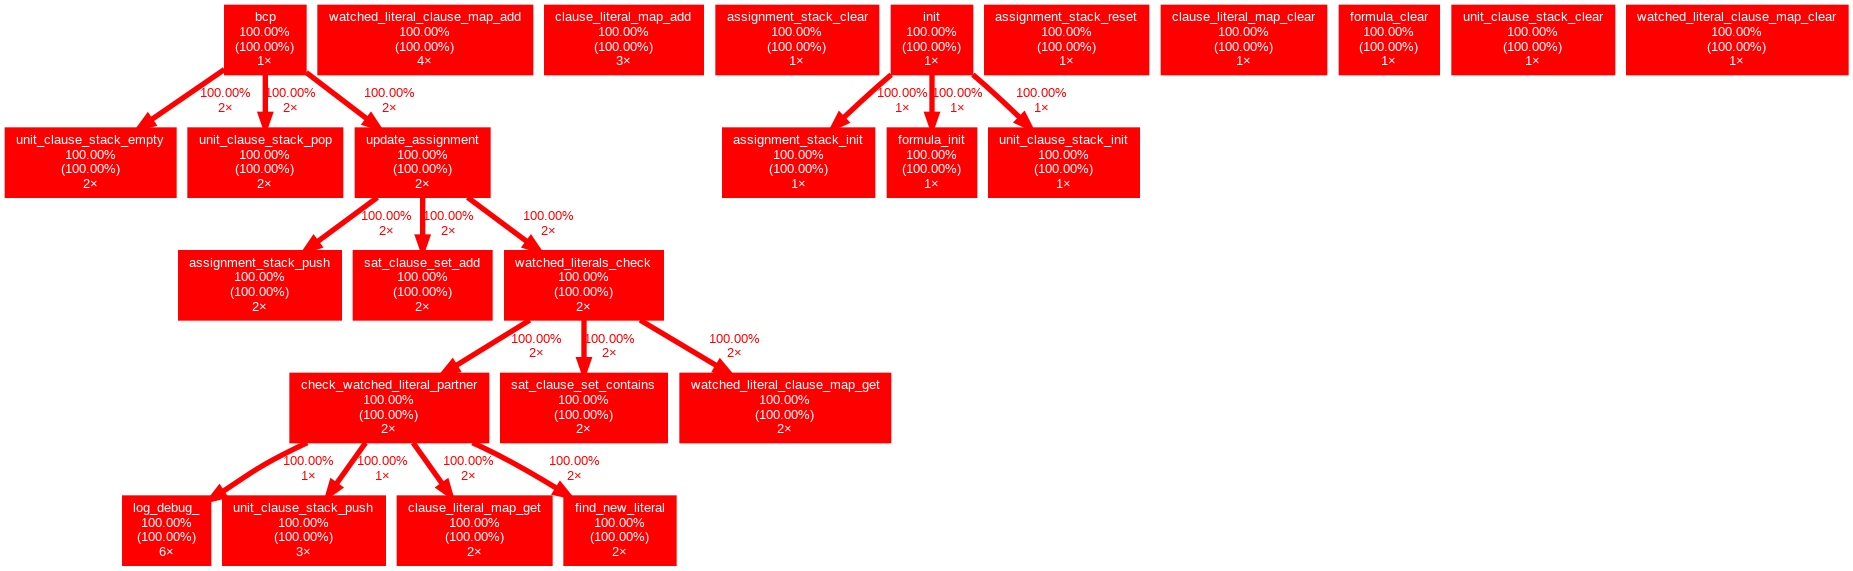
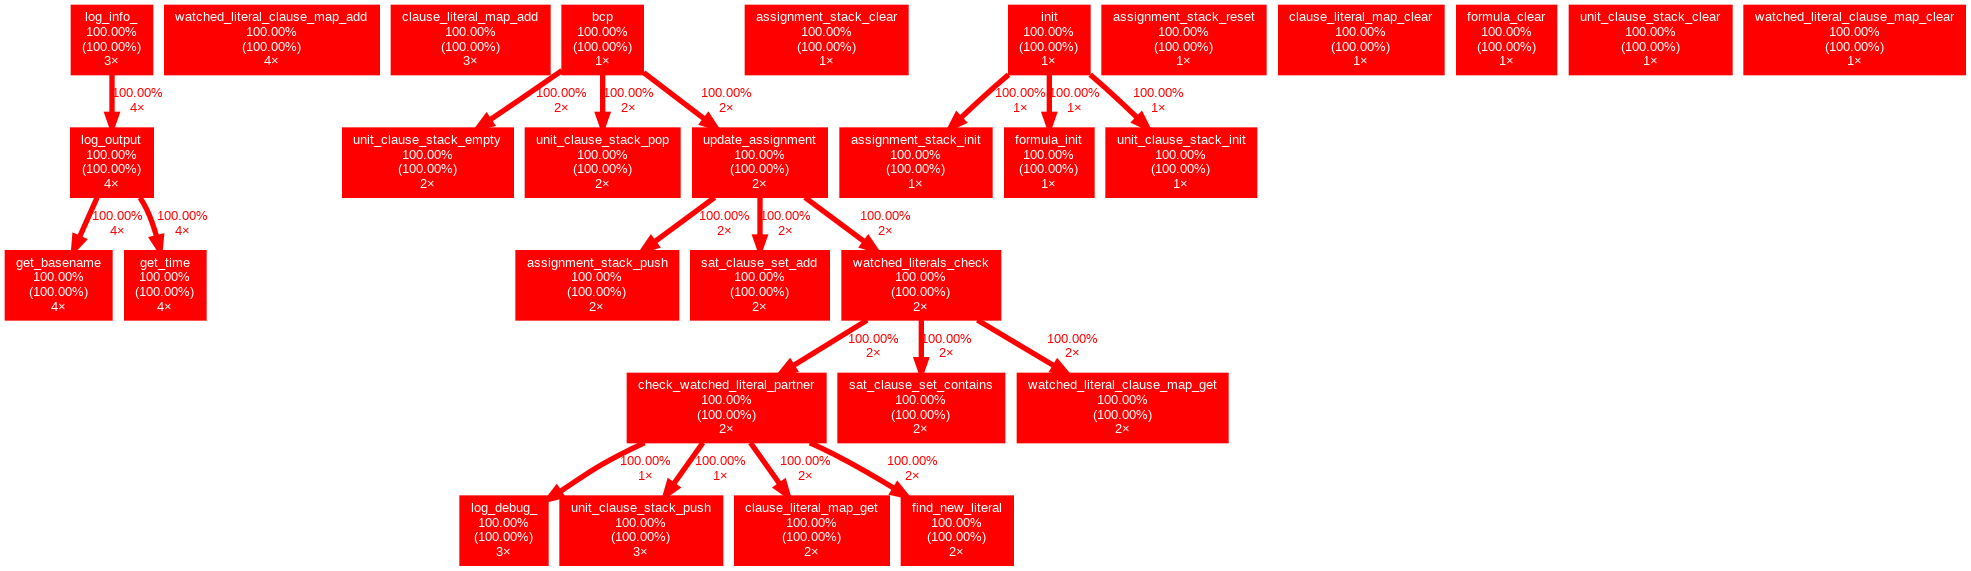
Deploying to gh-pages from @ marcluque/YASER@583651868cd7b80a9f11aa6ece5c036d38459d0a 🚀

Changed region(s): [[0.0, 0.0, 1.0, 1.0]]

diff --git a/reports/complexity.html b/reports/complexity.html
@@ -98,12 +98,15 @@
     <span class="mi">1</span>       <span class="mi">6</span>       <span class="mi">3</span>   <span class="p">.</span><span class="o">/</span><span class="n">src</span><span class="o">/</span><span class="n">assignments</span><span class="o">/</span><span class="n">assignment_stack</span><span class="p">.</span><span class="n">c</span><span class="p">(</span><span class="mi">47</span><span class="p">)</span><span class="o">:</span> <span class="n">assignment_stack_pop</span>
     <span class="mi">1</span>       <span class="mi">4</span>       <span class="mi">4</span>   <span class="p">.</span><span class="o">/</span><span class="n">src</span><span class="o">/</span><span class="n">assignments</span><span class="o">/</span><span class="n">assignment_stack</span><span class="p">.</span><span class="n">c</span><span class="p">(</span><span class="mi">10</span><span class="p">)</span><span class="o">:</span> <span class="n">assignment_stack_init</span>
     <span class="mi">1</span>       <span class="mi">4</span>       <span class="mi">4</span>   <span class="p">.</span><span class="o">/</span><span class="n">src</span><span class="o">/</span><span class="n">assignments</span><span class="o">/</span><span class="n">unit_clause_stack</span><span class="p">.</span><span class="n">c</span><span class="p">(</span><span class="mi">10</span><span class="p">)</span><span class="o">:</span> <span class="n">unit_clause_stack_init</span>
+    <span class="mi">1</span>       <span class="mi">6</span>       <span class="mi">4</span>   <span class="p">.</span><span class="o">/</span><span class="n">src</span><span class="o">/</span><span class="n">logging</span><span class="o">/</span><span class="n">log</span><span class="p">.</span><span class="n">c</span><span class="p">(</span><span class="mi">42</span><span class="p">)</span><span class="o">:</span> <span class="n">log_info_</span>
+    <span class="mi">1</span>       <span class="mi">6</span>       <span class="mi">4</span>   <span class="p">.</span><span class="o">/</span><span class="n">src</span><span class="o">/</span><span class="n">logging</span><span class="o">/</span><span class="n">log</span><span class="p">.</span><span class="n">c</span><span class="p">(</span><span class="mi">51</span><span class="p">)</span><span class="o">:</span> <span class="n">log_error_</span>
     <span class="mi">1</span>       <span class="mi">5</span>       <span class="mi">5</span>   <span class="p">.</span><span class="o">/</span><span class="n">src</span><span class="o">/</span><span class="n">assignments</span><span class="o">/</span><span class="n">unit_clause_stack</span><span class="p">.</span><span class="n">c</span><span class="p">(</span><span class="mi">33</span><span class="p">)</span><span class="o">:</span> <span class="n">unit_clause_stack_push</span>
     <span class="mi">1</span>       <span class="mi">6</span>       <span class="mi">5</span>   <span class="p">.</span><span class="o">/</span><span class="n">src</span><span class="o">/</span><span class="n">watched</span><span class="o">-</span><span class="n">literals</span><span class="o">/</span><span class="n">watched_literal_clause_map</span><span class="p">.</span><span class="n">c</span><span class="p">(</span><span class="mi">42</span><span class="p">)</span><span class="o">:</span> <span class="n">watched_literal_clause_map_get</span>
+    <span class="mi">1</span>       <span class="mi">7</span>       <span class="mi">5</span>   <span class="p">.</span><span class="o">/</span><span class="n">src</span><span class="o">/</span><span class="n">logging</span><span class="o">/</span><span class="n">log</span><span class="p">.</span><span class="n">c</span><span class="p">(</span><span class="mi">32</span><span class="p">)</span><span class="o">:</span> <span class="n">log_debug_</span>
     <span class="mi">1</span>       <span class="mi">7</span>       <span class="mi">5</span>   <span class="p">.</span><span class="o">/</span><span class="n">src</span><span class="o">/</span><span class="n">dpll</span><span class="p">.</span><span class="n">c</span><span class="p">(</span><span class="mi">6</span><span class="p">)</span><span class="o">:</span> <span class="n">update_assignment</span>
     <span class="mi">1</span>       <span class="mi">6</span>       <span class="mi">6</span>   <span class="p">.</span><span class="o">/</span><span class="n">src</span><span class="o">/</span><span class="n">conflicts</span><span class="o">/</span><span class="n">clause_resolution</span><span class="p">.</span><span class="n">c</span><span class="p">(</span><span class="mi">24</span><span class="p">)</span><span class="o">:</span> <span class="n">resolvent_variable_table_clear</span>
     <span class="mi">1</span>       <span class="mi">8</span>       <span class="mi">6</span>   <span class="p">.</span><span class="o">/</span><span class="n">src</span><span class="o">/</span><span class="n">watched</span><span class="o">-</span><span class="n">literals</span><span class="o">/</span><span class="n">clause_literal_map</span><span class="p">.</span><span class="n">c</span><span class="p">(</span><span class="mi">8</span><span class="p">)</span><span class="o">:</span> <span class="n">clause_literal_map_clear</span>
-    <span class="mi">1</span>       <span class="mi">8</span>       <span class="mi">6</span>   <span class="p">.</span><span class="o">/</span><span class="n">src</span><span class="o">/</span><span class="n">watched</span><span class="o">-</span><span class="n">literals</span><span class="o">/</span><span class="n">clause_literal_map</span><span class="p">.</span><span class="n">c</span><span class="p">(</span><span class="mi">33</span><span class="p">)</span><span class="o">:</span> <span class="n">clause_literal_map_get</span>
+    <span class="mi">1</span>       <span class="mi">8</span>       <span class="mi">6</span>   <span class="p">.</span><span class="o">/</span><span class="n">src</span><span class="o">/</span><span class="n">watched</span><span class="o">-</span><span class="n">literals</span><span class="o">/</span><span class="n">clause_literal_map</span><span class="p">.</span><span class="n">c</span><span class="p">(</span><span class="mi">34</span><span class="p">)</span><span class="o">:</span> <span class="n">clause_literal_map_get</span>
     <span class="mi">1</span>       <span class="mi">8</span>       <span class="mi">6</span>   <span class="p">.</span><span class="o">/</span><span class="n">src</span><span class="o">/</span><span class="n">conflicts</span><span class="o">/</span><span class="n">conflict_resolution</span><span class="p">.</span><span class="n">c</span><span class="p">(</span><span class="mi">8</span><span class="p">)</span><span class="o">:</span> <span class="n">resolve_conflict</span>
     <span class="mi">1</span>      <span class="mi">12</span>       <span class="mi">6</span>   <span class="p">.</span><span class="o">/</span><span class="n">src</span><span class="o">/</span><span class="n">global</span><span class="o">/</span><span class="n">cleanup</span><span class="p">.</span><span class="n">c</span><span class="p">(</span><span class="mi">6</span><span class="p">)</span><span class="o">:</span> <span class="n">cleanup_all</span>
     <span class="mi">1</span>       <span class="mi">8</span>       <span class="mi">7</span>   <span class="p">.</span><span class="o">/</span><span class="n">src</span><span class="o">/</span><span class="n">watched</span><span class="o">-</span><span class="n">literals</span><span class="o">/</span><span class="n">watched_literal_clause_map</span><span class="p">.</span><span class="n">c</span><span class="p">(</span><span class="mi">9</span><span class="p">)</span><span class="o">:</span> <span class="n">watched_literal_clause_map_clear</span>
@@ -113,11 +116,10 @@
     <span class="mi">1</span>       <span class="mi">9</span>       <span class="mi">8</span>   <span class="p">.</span><span class="o">/</span><span class="n">src</span><span class="o">/</span><span class="n">assignments</span><span class="o">/</span><span class="n">assignment_stack</span><span class="p">.</span><span class="n">c</span><span class="p">(</span><span class="mi">35</span><span class="p">)</span><span class="o">:</span> <span class="n">assignment_stack_push</span>
     <span class="mi">1</span>      <span class="mi">10</span>       <span class="mi">8</span>   <span class="p">.</span><span class="o">/</span><span class="n">src</span><span class="o">/</span><span class="n">dpll</span><span class="p">.</span><span class="n">c</span><span class="p">(</span><span class="mi">17</span><span class="p">)</span><span class="o">:</span> <span class="n">bcp</span>
     <span class="mi">1</span>      <span class="mi">10</span>       <span class="mi">8</span>   <span class="p">.</span><span class="o">/</span><span class="n">src</span><span class="o">/</span><span class="n">dpll</span><span class="p">.</span><span class="n">c</span><span class="p">(</span><span class="mi">42</span><span class="p">)</span><span class="o">:</span> <span class="n">backtrack</span>
-    <span class="mi">1</span>      <span class="mi">11</span>      <span class="mi">10</span>   <span class="p">.</span><span class="o">/</span><span class="n">src</span><span class="o">/</span><span class="n">watched</span><span class="o">-</span><span class="n">literals</span><span class="o">/</span><span class="n">clause_literal_map</span><span class="p">.</span><span class="n">c</span><span class="p">(</span><span class="mi">19</span><span class="p">)</span><span class="o">:</span> <span class="n">clause_literal_map_add</span>
+    <span class="mi">1</span>      <span class="mi">11</span>      <span class="mi">10</span>   <span class="p">.</span><span class="o">/</span><span class="n">src</span><span class="o">/</span><span class="n">watched</span><span class="o">-</span><span class="n">literals</span><span class="o">/</span><span class="n">clause_literal_map</span><span class="p">.</span><span class="n">c</span><span class="p">(</span><span class="mi">20</span><span class="p">)</span><span class="o">:</span> <span class="n">clause_literal_map_add</span>
     <span class="mi">1</span>      <span class="mi">14</span>      <span class="mi">10</span>   <span class="p">.</span><span class="o">/</span><span class="n">src</span><span class="o">/</span><span class="n">global</span><span class="o">/</span><span class="n">formula</span><span class="p">.</span><span class="n">c</span><span class="p">(</span><span class="mi">13</span><span class="p">)</span><span class="o">:</span> <span class="n">formula_init</span>
     <span class="mi">1</span>      <span class="mi">16</span>      <span class="mi">11</span>   <span class="p">.</span><span class="o">/</span><span class="n">src</span><span class="o">/</span><span class="n">watched</span><span class="o">-</span><span class="n">literals</span><span class="o">/</span><span class="n">watched_literals</span><span class="p">.</span><span class="n">c</span><span class="p">(</span><span class="mi">88</span><span class="p">)</span><span class="o">:</span> <span class="n">watched_literals_check</span>
-    <span class="mi">1</span>      <span class="mi">24</span>      <span class="mi">18</span>   <span class="p">.</span><span class="o">/</span><span class="n">src</span><span class="o">/</span><span class="n">logging</span><span class="o">/</span><span class="n">log</span><span class="p">.</span><span class="n">c</span><span class="p">(</span><span class="mi">37</span><span class="p">)</span><span class="o">:</span> <span class="n">log_error_</span>
-    <span class="mi">1</span>      <span class="mi">25</span>      <span class="mi">19</span>   <span class="p">.</span><span class="o">/</span><span class="n">src</span><span class="o">/</span><span class="n">logging</span><span class="o">/</span><span class="n">log</span><span class="p">.</span><span class="n">c</span><span class="p">(</span><span class="mi">9</span><span class="p">)</span><span class="o">:</span> <span class="n">log_debug_</span>
+    <span class="mi">1</span>      <span class="mi">19</span>      <span class="mi">15</span>   <span class="p">.</span><span class="o">/</span><span class="n">src</span><span class="o">/</span><span class="n">logging</span><span class="o">/</span><span class="n">log</span><span class="p">.</span><span class="n">c</span><span class="p">(</span><span class="mi">10</span><span class="p">)</span><span class="o">:</span> <span class="n">log_output</span>
     <span class="mi">2</span>      <span class="mi">11</span>      <span class="mi">10</span>   <span class="p">.</span><span class="o">/</span><span class="n">src</span><span class="o">/</span><span class="n">watched</span><span class="o">-</span><span class="n">literals</span><span class="o">/</span><span class="n">watched_literals</span><span class="p">.</span><span class="n">c</span><span class="p">(</span><span class="mi">24</span><span class="p">)</span><span class="o">:</span> <span class="n">watched_literals_init</span>
     <span class="mi">2</span>      <span class="mi">14</span>      <span class="mi">11</span>   <span class="p">.</span><span class="o">/</span><span class="n">src</span><span class="o">/</span><span class="n">watched</span><span class="o">-</span><span class="n">literals</span><span class="o">/</span><span class="n">watched_literals</span><span class="p">.</span><span class="n">c</span><span class="p">(</span><span class="mi">7</span><span class="p">)</span><span class="o">:</span> <span class="n">find_new_literal</span>
     <span class="mi">2</span>      <span class="mi">16</span>      <span class="mi">14</span>   <span class="p">.</span><span class="o">/</span><span class="n">src</span><span class="o">/</span><span class="n">dpll</span><span class="p">.</span><span class="n">c</span><span class="p">(</span><span class="mi">55</span><span class="p">)</span><span class="o">:</span> <span class="n">dpll</span>
@@ -131,11 +133,11 @@
 
 <span class="n">Complexity</span> <span class="n">Histogram</span>
 <span class="n">Score</span><span class="o">-</span><span class="n">Range</span>  <span class="n">Lin</span><span class="o">-</span><span class="n">Ct</span>
-    <span class="mi">0</span><span class="o">-</span><span class="mi">9</span>         <span class="mi">418</span> <span class="o">************************************************************</span>
+    <span class="mi">0</span><span class="o">-</span><span class="mi">9</span>         <span class="mi">409</span> <span class="o">************************************************************</span>
 
-<span class="n">Scored</span> <span class="n">procedure</span> <span class="nl">ct</span><span class="p">:</span>       <span class="mi">46</span>
-<span class="n">Non</span><span class="o">-</span><span class="n">comment</span> <span class="n">line</span> <span class="nl">ct</span><span class="p">:</span>      <span class="mi">418</span>
-<span class="n">Average</span> <span class="n">line</span> <span class="nl">score</span><span class="p">:</span>         <span class="mi">2</span>
+<span class="n">Scored</span> <span class="n">procedure</span> <span class="nl">ct</span><span class="p">:</span>       <span class="mi">48</span>
+<span class="n">Non</span><span class="o">-</span><span class="n">comment</span> <span class="n">line</span> <span class="nl">ct</span><span class="p">:</span>      <span class="mi">409</span>
+<span class="n">Average</span> <span class="n">line</span> <span class="nl">score</span><span class="p">:</span>         <span class="mi">3</span>
 <span class="mi">25</span><span class="o">%-</span><span class="n">ile</span> <span class="nl">score</span><span class="p">:</span>              <span class="mi">1</span> <span class="p">(</span><span class="mi">75</span><span class="o">%</span> <span class="n">in</span> <span class="n">higher</span> <span class="n">score</span> <span class="n">procs</span><span class="p">)</span>
 <span class="mi">50</span><span class="o">%-</span><span class="n">ile</span> <span class="nl">score</span><span class="p">:</span>              <span class="mi">2</span> <span class="p">(</span><span class="n">half</span> <span class="n">in</span> <span class="n">higher</span> <span class="n">score</span> <span class="n">procs</span><span class="p">)</span>
 <span class="mi">75</span><span class="o">%-</span><span class="n">ile</span> <span class="nl">score</span><span class="p">:</span>              <span class="mi">3</span> <span class="p">(</span><span class="mi">25</span><span class="o">%</span> <span class="n">in</span> <span class="n">higher</span> <span class="n">score</span> <span class="n">procs</span><span class="p">)</span>

diff --git a/searchindex.js b/searchindex.js
@@ -1,1 +1,1 @@
-Search.setIndex({docnames:["index","reports/address-sanitizer","reports/benchmark","reports/callgrind","reports/complexity","reports/gnu-profiler","reports/index","reports/memory-sanitizer","reports/ub-sanitizer","reports/unit-test","reports/valgrind-report"],envversion:{"sphinx.domains.c":2,"sphinx.domains.changeset":1,"sphinx.domains.citation":1,"sphinx.domains.cpp":4,"sphinx.domains.index":1,"sphinx.domains.javascript":2,"sphinx.domains.math":2,"sphinx.domains.python":3,"sphinx.domains.rst":2,"sphinx.domains.std":2,"sphinx.ext.intersphinx":1,"sphinx.ext.todo":2,"sphinx.ext.viewcode":1,sphinx:56},filenames:["index.rst","reports/address-sanitizer.rst","reports/benchmark.rst","reports/callgrind.rst","reports/complexity.rst","reports/gnu-profiler.rst","reports/index.rst","reports/memory-sanitizer.rst","reports/ub-sanitizer.rst","reports/unit-test.rst","reports/valgrind-report.rst"],objects:{},objnames:{},objtypes:{},terms:{"0":[3,4,10],"002":3,"064":3,"076":3,"0m":[3,10],"1":[3,4,10],"10":4,"11":[3,4],"1179":3,"12":4,"13":4,"14":4,"15":[3,10],"16":4,"1680":3,"17":[3,4,10],"174":3,"179":3,"18":[3,4],"1818":3,"19":4,"2":[3,4,10],"20":4,"2002":[3,10],"201":3,"2017":[3,10],"21":[3,4],"2201":3,"23":4,"24":4,"241":3,"25":4,"258":3,"26":3,"260":3,"26064":3,"27":4,"28":4,"2814":3,"29":4,"290":10,"3":[3,4,10],"30":4,"305":3,"31":4,"3144":10,"316":3,"316076":3,"33":4,"34":10,"35":4,"353":3,"3684":3,"36m":[3,10],"36mclaus":[3,10],"36mdebug":[3,10],"36mformula":[3,10],"36miniti":[3,10],"36mpars":[3,10],"36msuccessfulli":[3,10],"36mwatch":[3,10],"37":[3,4],"38":4,"4":[3,4,10],"40":4,"400":3,"41":4,"418":4,"42":4,"44":3,"45":4,"46":[3,4,10],"47":4,"486":3,"5":[3,4],"50":4,"53":[3,10],"54":4,"55":4,"579":3,"58":3,"582":3,"592":3,"6":[3,4],"60":3,"60174":3,"61":3,"62":4,"63":10,"632":3,"64":3,"680":3,"69":4,"698":3,"7":[3,4],"70":3,"7002":3,"70241":3,"736":3,"748":3,"75":4,"768":3,"8":[3,4],"814":3,"818":3,"88":4,"881":3,"899":3,"9":[3,4],"96":3,"byte":10,For:[3,10],address:6,al:[3,10],all:10,alloc:10,ar:[3,10],assign:4,assignment_stack:4,assignment_stack_clear:4,assignment_stack_empti:4,assignment_stack_ful:4,assignment_stack_init:4,assignment_stack_pop:4,assignment_stack_push:4,assignment_stack_reset:4,assoc:3,averag:4,backtrack:4,bc:3,bcm:3,bcp:4,behavior:6,benchmark:6,bi:3,bim:3,block:10,branch:3,c:[3,4,10],cach:3,call:3,callgrind:6,callgrind_control:3,check_watched_literal_partn:4,claus:[3,10],clause_literal_map:4,clause_literal_map_add:4,clause_literal_map_clear:4,clause_literal_map_get:4,clause_resolut:4,clause_resolution_build_resolv:4,cleanup:4,cleanup_al:4,cnf:[3,10],collect:3,command:[3,10],comment:4,complex:6,cond:3,conflict:[3,4,10],conflict_resolut:4,context:10,control:3,copyright:[3,10],ct:4,d1:3,d1mr:3,d1mw:3,d:[3,10],data:3,decid:4,detect:10,detector:10,dimacs_pars:[3,4,10],dimacs_parse_fil:4,distinct:[3,10],dlmr:3,dlmw:3,done:[3,10],dpll:4,dr:3,dw:3,error:10,et:[3,10],event:3,exit:10,file:[3,4,10],find_new_liter:4,formula:[3,4,10],formula_clear:4,formula_init:4,found:3,free:10,freed:10,from:10,gcov:6,gener:3,global:4,gnu:[3,6,10],gpl:[3,10],graph:3,h:[3,10],half:4,heap:10,higher:4,highest:4,histogram:4,i1:3,i1mr:3,i:[3,10],il:4,ilmr:3,ind:3,info:[3,10],init:4,initi:[3,10],interact:3,ir:3,its:3,josef:3,julian:10,l3:3,leak:10,libvex:[3,10],lin:4,line:4,line_s:3,list:10,liter:[3,4,10],ll:3,lld:3,lli:3,ln:4,log:4,log_debug_:4,log_error_:4,main:[3,4,10],memcheck:10,memori:[6,10],mispr:3,mispredict:3,miss:3,name:4,nc:4,non:4,open:[3,10],pars:4,parse_flag:4,pigeonhol:[3,10],possibl:10,print_formula:4,proc:4,procedur:4,profil:[3,6],rang:4,rate:3,rd:3,ref:3,rerun:[3,10],resolve_conflict:4,resolvent_literal_table_add:4,resolvent_variable_table_clear:4,run:3,s:10,sanit:6,sat_clause_set:4,sat_clause_set_add:4,sat_clause_set_contain:4,sat_clause_set_exists_unsat:4,satlib:[3,10],score:4,seward:10,simul:3,specifi:3,src:4,summari:10,suppress:10,test:6,total:10,total_s:3,undefin:6,unit:6,unit_clause_stack:4,unit_clause_stack_clear:4,unit_clause_stack_empti:4,unit_clause_stack_ful:4,unit_clause_stack_init:4,unit_clause_stack_pop:4,unit_clause_stack_push:4,unit_clause_stack_reset:4,unsat:[3,10],update_assign:4,us:[3,10],usag:10,valgrind:[3,6],variabl:[3,10],warn:3,watch:4,watched_liter:[3,4,10],watched_literal_clause_map:4,watched_literal_clause_map_add:4,watched_literal_clause_map_clear:4,watched_literal_clause_map_get:4,watched_literals_check:4,watched_literals_init:4,weidendorf:3,were:10,wr:3,x1:[3,10],x2:[3,10],yaser:[3,10]},titles:["YASER\u2019s Documentation","Address Sanitizer","Benchmark","Callgrind","Complexity","GNU Profiler","Reports","Memory Sanitizer","Undefined Behavior Sanitizer","Unit Test","Valgrind"],titleterms:{address:1,behavior:8,benchmark:2,callgrind:3,complex:4,document:0,gnu:5,memori:7,profil:5,report:6,s:0,sanit:[1,7,8],test:9,undefin:8,unit:9,valgrind:10,yaser:0}})
+Search.setIndex({docnames:["index","reports/address-sanitizer","reports/benchmark","reports/callgrind","reports/complexity","reports/gnu-profiler","reports/index","reports/memory-sanitizer","reports/ub-sanitizer","reports/unit-test","reports/valgrind-report"],envversion:{"sphinx.domains.c":2,"sphinx.domains.changeset":1,"sphinx.domains.citation":1,"sphinx.domains.cpp":4,"sphinx.domains.index":1,"sphinx.domains.javascript":2,"sphinx.domains.math":2,"sphinx.domains.python":3,"sphinx.domains.rst":2,"sphinx.domains.std":2,"sphinx.ext.intersphinx":1,"sphinx.ext.todo":2,"sphinx.ext.viewcode":1,sphinx:56},filenames:["index.rst","reports/address-sanitizer.rst","reports/benchmark.rst","reports/callgrind.rst","reports/complexity.rst","reports/gnu-profiler.rst","reports/index.rst","reports/memory-sanitizer.rst","reports/ub-sanitizer.rst","reports/unit-test.rst","reports/valgrind-report.rst"],objects:{},objnames:{},objtypes:{},terms:{"0":[3,4,10],"02":1,"03":8,"052":3,"099":3,"0m":[1,3,7,8,10],"1":[3,4,10],"10":4,"11":[3,4],"1179":3,"12":4,"13":4,"14":4,"15":[3,4,10],"16":4,"1687":3,"17":4,"179":3,"18":[3,4],"1807":3,"19":4,"2":[1,3,4,7,8,10],"20":4,"2002":[3,10],"2017":[3,10],"202":3,"21":[3,4,10],"214":3,"22":[1,3,7,8,10],"2202":3,"23":4,"231":3,"24":4,"25":4,"256":3,"258":3,"26":3,"26099":3,"27":4,"28":4,"2813":3,"29":4,"290":10,"3":[1,3,4,7,8,10],"30":4,"3089":10,"31":4,"313":3,"315":3,"315824":3,"32":4,"32m":[1,3,7,8,10],"32minfo":[1,3,7,8,10],"32mresult":[1,3,7,8,10],"33":[3,4],"34":4,"35":4,"36mclaus":[3,10],"36mdebug":[3,10],"36miniti":[3,10],"36mpars":[3,10],"36msuccessfulli":[3,10],"36mwatch":[3,10],"37":3,"3738":3,"38":4,"388":3,"4":[1,3,4,7,8,10],"40":4,"409":4,"41":4,"42":4,"45":4,"47":4,"48":4,"486":3,"5":[3,4],"50":4,"51":[4,7],"52":[1,3,8,10],"53":[3,10],"54":4,"55":4,"57":3,"58":7,"581":3,"588":3,"592":3,"6":[3,4],"60":3,"60052":3,"61":3,"62":4,"620":3,"63":10,"64":3,"687":3,"69":4,"699":3,"6998":3,"7":[3,4],"70":3,"70214":3,"736":3,"748":3,"75":4,"768":3,"8":4,"807":3,"813":3,"824":3,"88":4,"889":3,"9":[3,4],"901":3,"96":3,"998":3,"byte":10,For:[3,10],address:6,al:[3,10],all:10,alloc:10,ar:[3,10],assign:4,assignment_stack:4,assignment_stack_clear:4,assignment_stack_empti:4,assignment_stack_ful:4,assignment_stack_init:4,assignment_stack_pop:4,assignment_stack_push:4,assignment_stack_reset:4,assoc:3,averag:4,backtrack:4,bc:3,bcm:3,bcp:4,behavior:6,benchmark:6,bi:3,bim:3,block:10,branch:3,c:[1,3,4,7,8,10],cach:3,call:3,callgrind:6,callgrind_control:3,check_watched_literal_partn:4,claus:[1,3,7,8,10],clause_literal_map:4,clause_literal_map_add:4,clause_literal_map_clear:4,clause_literal_map_get:4,clause_resolut:4,clause_resolution_build_resolv:4,cleanup:4,cleanup_al:4,cnf:[3,10],collect:3,command:[3,10],comment:4,complex:6,cond:3,conflict:[3,4,10],conflict_resolut:4,context:10,control:3,copyright:[3,10],ct:4,d1:3,d1mr:3,d1mw:3,d:[3,10],data:3,decid:4,detect:10,detector:10,dimacs_pars:[1,3,4,7,8,10],dimacs_parse_fil:4,distinct:[1,3,7,8,10],dlmr:3,dlmw:3,done:[3,10],dpll:4,dr:3,dw:3,error:10,et:[3,10],event:3,exit:10,file:[3,4,10],find_new_liter:4,formula:[3,4,10],formula_clear:4,formula_init:4,found:3,free:10,freed:10,from:10,gcov:6,gener:3,global:4,gnu:[3,6,10],gpl:[3,10],graph:3,h:[3,10],half:4,heap:10,higher:4,highest:4,histogram:4,i1:3,i1mr:3,i:[3,10],il:4,ilmr:3,ind:3,info:[3,10],init:4,initi:[3,10],interact:3,ir:3,its:3,josef:3,julian:10,l3:3,leak:10,libvex:[3,10],lin:4,line:4,line_s:3,list:10,liter:[1,3,4,7,8,10],ll:3,lld:3,lli:3,ln:4,log:4,log_debug_:4,log_error_:4,log_info_:4,log_output:4,main:[1,3,4,7,8,10],memcheck:10,memori:[6,10],mispr:3,mispredict:3,miss:3,name:4,nc:4,non:4,open:[3,10],pars:4,parse_flag:4,pigeonhol:[3,10],possibl:10,print_formula:4,proc:4,procedur:4,profil:[3,6],rang:4,rate:3,rd:3,ref:3,rerun:[3,10],resolve_conflict:4,resolvent_literal_table_add:4,resolvent_variable_table_clear:4,run:3,s:10,sanit:6,sat_clause_set:4,sat_clause_set_add:4,sat_clause_set_contain:4,sat_clause_set_exists_unsat:4,satlib:[3,10],score:4,seward:10,simul:3,specifi:3,src:4,summari:10,suppress:10,test:6,total:10,total_s:3,undefin:6,unit:6,unit_clause_stack:4,unit_clause_stack_clear:4,unit_clause_stack_empti:4,unit_clause_stack_ful:4,unit_clause_stack_init:4,unit_clause_stack_pop:4,unit_clause_stack_push:4,unit_clause_stack_reset:4,unsat:[1,3,7,8,10],update_assign:4,us:[3,10],usag:10,valgrind:[3,6],variabl:[1,3,7,8,10],warn:3,watch:4,watched_liter:[3,4,10],watched_literal_clause_map:4,watched_literal_clause_map_add:4,watched_literal_clause_map_clear:4,watched_literal_clause_map_get:4,watched_literals_check:4,watched_literals_init:4,weidendorf:3,were:10,wr:3,x1:[3,10],x2:[3,10],yaser:[1,3,7,8,10]},titles:["YASER\u2019s Documentation","Address Sanitizer","Benchmark","Callgrind","Complexity","GNU Profiler","Reports","Memory Sanitizer","Undefined Behavior Sanitizer","Unit Test","Valgrind"],titleterms:{address:1,behavior:8,benchmark:2,callgrind:3,complex:4,document:0,gnu:5,memori:7,profil:5,report:6,s:0,sanit:[1,7,8],test:9,undefin:8,unit:9,valgrind:10,yaser:0}})

diff --git a/reports/callgrind.html b/reports/callgrind.html
@@ -80,47 +80,47 @@
              
   <section id="callgrind">
 <span id="reports-callgrind"></span><h1>Callgrind<a class="headerlink" href="#callgrind" title="Permalink to this headline"></a></h1>
-<div class="highlight-C notranslate"><div class="highlight"><pre><span></span>==3684== Callgrind, a call-graph generating cache profiler
-==3684== Copyright (C) 2002-2017, and GNU GPL&#39;d, by Josef Weidendorfer et al.
-==3684== Using Valgrind-3.15.0 and LibVEX; rerun with -h for copyright info
-==3684== Command: ./yaser -i satlib/pigeonhole/pigeonhole-1.cnf
-==3684== 
---3684-- warning: L3 cache found, using its data for the LL simulation.
---3684-- warning: specified LL cache: line_size 64  assoc 11  total_size 37,486,592
---3684-- warning: simulated LL cache: line_size 64  assoc 18  total_size 37,748,736
-==3684== For interactive control, run &#39;callgrind_control -h&#39;.
-[17:46:44][YASER - [36mDEBUG[0m][dimacs_parser.c]: [36mSuccessfully opened file (satlib/pigeonhole/pigeonhole-1.cnf)[0m
-[17:46:44][YASER - [36mDEBUG[0m][dimacs_parser.c]: [36m#Literals=4 (not distinct)[0m
-[17:46:44][YASER - [36mDEBUG[0m][dimacs_parser.c]: [36m#Variables=2[0m
-[17:46:44][YASER - [36mDEBUG[0m][dimacs_parser.c]: [36m#Clauses=3[0m
-[17:46:44][YASER - [36mDEBUG[0m][dimacs_parser.c]: [36mParsed formula (x1) ∧ (x2) ∧ (¬x1 ∨ ¬x2)[0m
-[17:46:44][YASER - [36mDEBUG[0m][watched_literals.c]: [36mWatched Literals are initialized...[0m
-[17:46:44][YASER - [36mDEBUG[0m][main.c]: [36mInitialization done...[0m
-[17:46:44][YASER - [36mDEBUG[0m][watched_literals.c]: [36mClause 0 is conflicting[0m
-[17:46:44][YASER - [36mDEBUG[0m][main.c]: [36mFormula is UNSAT[0m
-==3684== 
-==3684== Events    : Ir Dr Dw I1mr D1mr D1mw ILmr DLmr DLmw Bc Bcm Bi Bim
-==3684== Collected : 316076 70241 26064 1818 2814 768 1680 2201 698 60174 7002 1179 258
-==3684== 
-==3684== I   refs:      316,076
-==3684== I1  misses:      1,818
-==3684== LLi misses:      1,680
-==3684== I1  miss rate:    0.58%
-==3684== LLi miss rate:    0.53%
-==3684== 
-==3684== D   refs:       96,305  (70,241 rd + 26,064 wr)
-==3684== D1  misses:      3,582  ( 2,814 rd +    768 wr)
-==3684== LLd misses:      2,899  ( 2,201 rd +    698 wr)
-==3684== D1  miss rate:     3.7% (   4.0%   +    2.9%  )
-==3684== LLd miss rate:     3.0% (   3.1%   +    2.7%  )
-==3684== 
-==3684== LL refs:         5,400  ( 4,632 rd +    768 wr)
-==3684== LL misses:       4,579  ( 3,881 rd +    698 wr)
-==3684== LL miss rate:      1.1% (   1.0%   +    2.7%  )
-==3684== 
-==3684== Branches:       61,353  (60,174 cond +  1,179 ind)
-==3684== Mispredicts:     7,260  ( 7,002 cond +    258 ind)
-==3684== Mispred rate:     11.8% (  11.6%     +   21.9%   )
+<div class="highlight-C notranslate"><div class="highlight"><pre><span></span>==3738== Callgrind, a call-graph generating cache profiler
+==3738== Copyright (C) 2002-2017, and GNU GPL&#39;d, by Josef Weidendorfer et al.
+==3738== Using Valgrind-3.15.0 and LibVEX; rerun with -h for copyright info
+==3738== Command: ./yaser -i satlib/pigeonhole/pigeonhole-1.cnf
+==3738== 
+--3738-- warning: L3 cache found, using its data for the LL simulation.
+--3738-- warning: specified LL cache: line_size 64  assoc 11  total_size 37,486,592
+--3738-- warning: simulated LL cache: line_size 64  assoc 18  total_size 37,748,736
+==3738== For interactive control, run &#39;callgrind_control -h&#39;.
+[22:52:33][YASER - [36mDEBUG[0m][dimacs_parser.c]: [36mSuccessfully opened file (satlib/pigeonhole/pigeonhole-1.cnf)[0m
+[22:52:33][YASER - [32mINFO[0m][dimacs_parser.c]: [32m#Literals=4 (not distinct)[0m
+[22:52:33][YASER - [32mINFO[0m][dimacs_parser.c]: [32m#Variables=2[0m
+[22:52:33][YASER - [32mINFO[0m][dimacs_parser.c]: [32m#Clauses=3[0m
+[22:52:33][YASER - [36mDEBUG[0m][dimacs_parser.c]: [36mParsed formula (x1) ∧ (x2) ∧ (¬x1 ∨ ¬x2)[0m
+[22:52:33][YASER - [36mDEBUG[0m][watched_literals.c]: [36mWatched Literals are initialized...[0m
+[22:52:33][YASER - [36mDEBUG[0m][main.c]: [36mInitialization done...[0m
+[22:52:33][YASER - [36mDEBUG[0m][watched_literals.c]: [36mClause 0 is conflicting[0m
+[22:52:33][YASER - [32mINFO[0m][main.c]: [32mRESULT: UNSAT[0m
+==3738== 
+==3738== Events    : Ir Dr Dw I1mr D1mr D1mw ILmr DLmr DLmw Bc Bcm Bi Bim
+==3738== Collected : 315824 70214 26099 1807 2813 768 1687 2202 699 60052 6998 1179 258
+==3738== 
+==3738== I   refs:      315,824
+==3738== I1  misses:      1,807
+==3738== LLi misses:      1,687
+==3738== I1  miss rate:    0.57%
+==3738== LLi miss rate:    0.53%
+==3738== 
+==3738== D   refs:       96,313  (70,214 rd + 26,099 wr)
+==3738== D1  misses:      3,581  ( 2,813 rd +    768 wr)
+==3738== LLd misses:      2,901  ( 2,202 rd +    699 wr)
+==3738== D1  miss rate:     3.7% (   4.0%   +    2.9%  )
+==3738== LLd miss rate:     3.0% (   3.1%   +    2.7%  )
+==3738== 
+==3738== LL refs:         5,388  ( 4,620 rd +    768 wr)
+==3738== LL misses:       4,588  ( 3,889 rd +    699 wr)
+==3738== LL miss rate:      1.1% (   1.0%   +    2.7%  )
+==3738== 
+==3738== Branches:       61,231  (60,052 cond +  1,179 ind)
+==3738== Mispredicts:     7,256  ( 6,998 cond +    258 ind)
+==3738== Mispred rate:     11.9% (  11.7%     +   21.9%   )
 </pre></div>
 </div>
 <img alt="gprof report" src="../_images/callgrind-report.png" />

diff --git a/reports/valgrind-report.html b/reports/valgrind-report.html
@@ -79,29 +79,29 @@
              
   <section id="valgrind">
 <span id="reports-valgrind"></span><h1>Valgrind<a class="headerlink" href="#valgrind" title="Permalink to this headline"></a></h1>
-<div class="highlight-C notranslate"><div class="highlight"><pre><span></span>==3144== Memcheck, a memory error detector
-==3144== Copyright (C) 2002-2017, and GNU GPL&#39;d, by Julian Seward et al.
-==3144== Using Valgrind-3.15.0 and LibVEX; rerun with -h for copyright info
-==3144== Command: ./yaser -i satlib/pigeonhole/pigeonhole-1.cnf
-==3144== 
-[17:46:34][YASER - [36mDEBUG[0m][dimacs_parser.c]: [36mSuccessfully opened file (satlib/pigeonhole/pigeonhole-1.cnf)[0m
-[17:46:34][YASER - [36mDEBUG[0m][dimacs_parser.c]: [36m#Literals=4 (not distinct)[0m
-[17:46:34][YASER - [36mDEBUG[0m][dimacs_parser.c]: [36m#Variables=2[0m
-[17:46:34][YASER - [36mDEBUG[0m][dimacs_parser.c]: [36m#Clauses=3[0m
-[17:46:34][YASER - [36mDEBUG[0m][dimacs_parser.c]: [36mParsed formula (x1) ∧ (x2) ∧ (¬x1 ∨ ¬x2)[0m
-[17:46:34][YASER - [36mDEBUG[0m][watched_literals.c]: [36mWatched Literals are initialized...[0m
-[17:46:34][YASER - [36mDEBUG[0m][main.c]: [36mInitialization done...[0m
-[17:46:34][YASER - [36mDEBUG[0m][watched_literals.c]: [36mClause 0 is conflicting[0m
-[17:46:34][YASER - [36mDEBUG[0m][main.c]: [36mFormula is UNSAT[0m
-==3144== 
-==3144== HEAP SUMMARY:
-==3144==     in use at exit: 0 bytes in 0 blocks
-==3144==   total heap usage: 63 allocs, 63 frees, 53,290 bytes allocated
-==3144== 
-==3144== All heap blocks were freed -- no leaks are possible
-==3144== 
-==3144== For lists of detected and suppressed errors, rerun with: -s
-==3144== ERROR SUMMARY: 0 errors from 0 contexts (suppressed: 0 from 0)
+<div class="highlight-C notranslate"><div class="highlight"><pre><span></span>==3089== Memcheck, a memory error detector
+==3089== Copyright (C) 2002-2017, and GNU GPL&#39;d, by Julian Seward et al.
+==3089== Using Valgrind-3.15.0 and LibVEX; rerun with -h for copyright info
+==3089== Command: ./yaser -i satlib/pigeonhole/pigeonhole-1.cnf
+==3089== 
+[22:52:21][YASER - [36mDEBUG[0m][dimacs_parser.c]: [36mSuccessfully opened file (satlib/pigeonhole/pigeonhole-1.cnf)[0m
+[22:52:21][YASER - [32mINFO[0m][dimacs_parser.c]: [32m#Literals=4 (not distinct)[0m
+[22:52:21][YASER - [32mINFO[0m][dimacs_parser.c]: [32m#Variables=2[0m
+[22:52:21][YASER - [32mINFO[0m][dimacs_parser.c]: [32m#Clauses=3[0m
+[22:52:21][YASER - [36mDEBUG[0m][dimacs_parser.c]: [36mParsed formula (x1) ∧ (x2) ∧ (¬x1 ∨ ¬x2)[0m
+[22:52:21][YASER - [36mDEBUG[0m][watched_literals.c]: [36mWatched Literals are initialized...[0m
+[22:52:21][YASER - [36mDEBUG[0m][main.c]: [36mInitialization done...[0m
+[22:52:21][YASER - [36mDEBUG[0m][watched_literals.c]: [36mClause 0 is conflicting[0m
+[22:52:21][YASER - [32mINFO[0m][main.c]: [32mRESULT: UNSAT[0m
+==3089== 
+==3089== HEAP SUMMARY:
+==3089==     in use at exit: 0 bytes in 0 blocks
+==3089==   total heap usage: 63 allocs, 63 frees, 53,290 bytes allocated
+==3089== 
+==3089== All heap blocks were freed -- no leaks are possible
+==3089== 
+==3089== For lists of detected and suppressed errors, rerun with: -s
+==3089== ERROR SUMMARY: 0 errors from 0 contexts (suppressed: 0 from 0)
 </pre></div>
 </div>
 </section>

diff --git a/reports/ub-sanitizer.html b/reports/ub-sanitizer.html
@@ -80,7 +80,10 @@
              
   <section id="undefined-behavior-sanitizer">
 <span id="reports-ub-san"></span><h1>Undefined Behavior Sanitizer<a class="headerlink" href="#undefined-behavior-sanitizer" title="Permalink to this headline"></a></h1>
-<div class="highlight-C notranslate"><div class="highlight"><pre><span></span>
+<div class="highlight-C notranslate"><div class="highlight"><pre><span></span>[22:52:03][YASER - [32mINFO[0m][dimacs_parser.c]: [32m#Literals=4 (not distinct)[0m
+[22:52:03][YASER - [32mINFO[0m][dimacs_parser.c]: [32m#Variables=2[0m
+[22:52:03][YASER - [32mINFO[0m][dimacs_parser.c]: [32m#Clauses=3[0m
+[22:52:03][YASER - [32mINFO[0m][main.c]: [32mRESULT: UNSAT[0m
 </pre></div>
 </div>
 </section>

diff --git a/reports/address-sanitizer.html b/reports/address-sanitizer.html
@@ -80,7 +80,10 @@
              
   <section id="address-sanitizer">
 <span id="reports-address-san"></span><h1>Address Sanitizer<a class="headerlink" href="#address-sanitizer" title="Permalink to this headline"></a></h1>
-<div class="highlight-C notranslate"><div class="highlight"><pre><span></span>
+<div class="highlight-C notranslate"><div class="highlight"><pre><span></span>[22:52:02][YASER - [32mINFO[0m][dimacs_parser.c]: [32m#Literals=4 (not distinct)[0m
+[22:52:02][YASER - [32mINFO[0m][dimacs_parser.c]: [32m#Variables=2[0m
+[22:52:02][YASER - [32mINFO[0m][dimacs_parser.c]: [32m#Clauses=3[0m
+[22:52:02][YASER - [32mINFO[0m][main.c]: [32mRESULT: UNSAT[0m
 </pre></div>
 </div>
 </section>

diff --git a/reports/memory-sanitizer.html b/reports/memory-sanitizer.html
@@ -80,7 +80,10 @@
              
   <section id="memory-sanitizer">
 <span id="reports-memory-san"></span><h1>Memory Sanitizer<a class="headerlink" href="#memory-sanitizer" title="Permalink to this headline"></a></h1>
-<div class="highlight-C notranslate"><div class="highlight"><pre><span></span>
+<div class="highlight-C notranslate"><div class="highlight"><pre><span></span>[22:51:58][YASER - [32mINFO[0m][dimacs_parser.c]: [32m#Literals=4 (not distinct)[0m
+[22:51:58][YASER - [32mINFO[0m][dimacs_parser.c]: [32m#Variables=2[0m
+[22:51:58][YASER - [32mINFO[0m][dimacs_parser.c]: [32m#Clauses=3[0m
+[22:51:58][YASER - [32mINFO[0m][main.c]: [32mRESULT: UNSAT[0m
 </pre></div>
 </div>
 </section>
